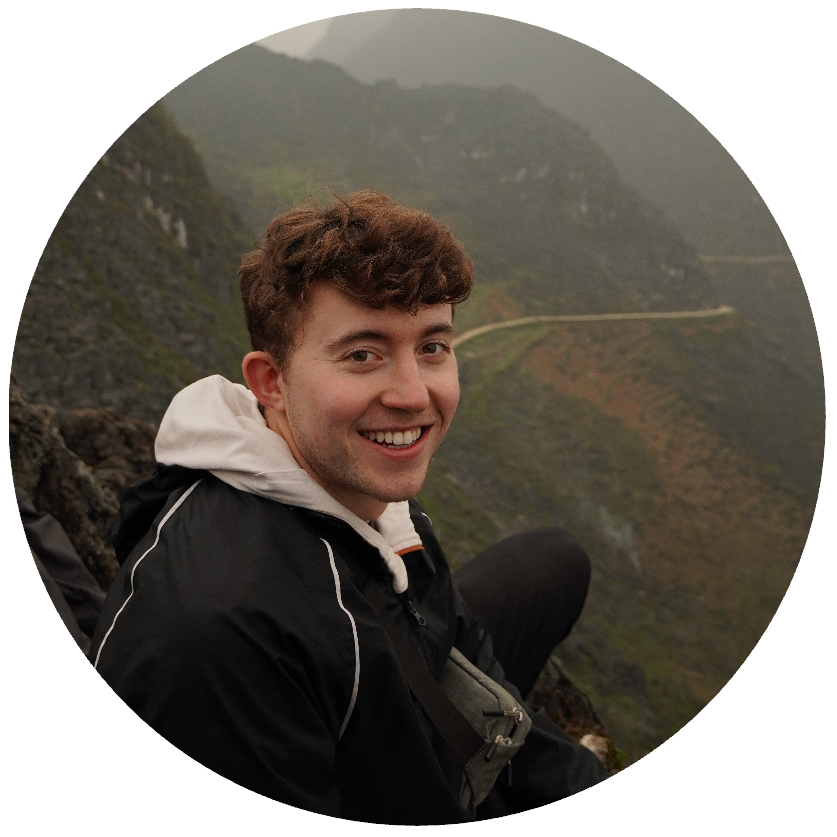
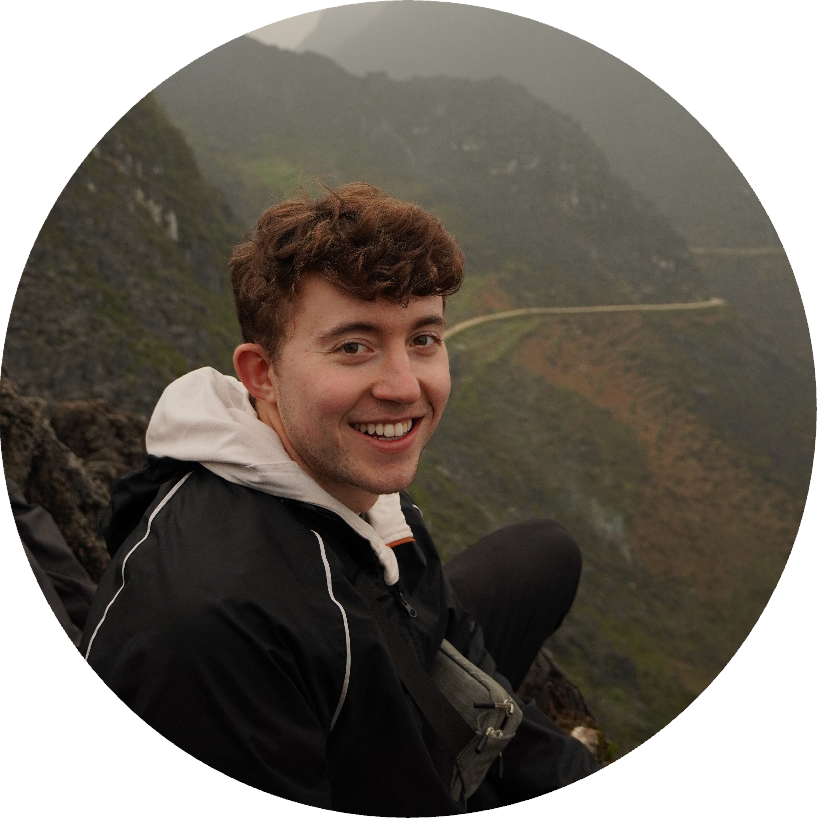
rough timeline entries

diff --git a/components/timeline/TimelineEntry.tsx b/components/timeline/TimelineEntry.tsx
@@ -1,0 +1,40 @@
+import { resumeEntry } from "@/data/resumeEntries";
+import TimelineCard from "./TimelineCard";
+
+declare type TimelineEntryProps = {
+  resumeEntry: resumeEntry;
+  index: number;
+};
+
+const TimelineEntry = (props: TimelineEntryProps) => {
+  return (
+    <>
+      <div className="flex w-full h-36 items-center p-0 md:justify-between mb-10">
+        <div className="spacer w-12 md:hidden"></div>
+        <div className="order-1 block w-full rounded-lg px-6 py-4 md:hidden colored-shadow">
+          <TimelineCard resumeEntry={props.resumeEntry} />
+        </div>
+        <div className="order-1 hidden px-6 py-4 md:block md:w-6/12">
+          {props.index % 2 == 0 ? (
+            <div className="colored-shadow rounded-lg">
+              <TimelineCard resumeEntry={props.resumeEntry} />
+            </div>
+          ) : (
+            <></>
+          )}
+        </div>
+        <div className="order-1 hidden px-6 py-4 md:block md:w-6/12">
+          {props.index % 2 == 0 ? (
+            <></>
+          ) : (
+            <div className="colored-shadow rounded-lg">
+              <TimelineCard resumeEntry={props.resumeEntry} />
+            </div>
+          )}
+        </div>
+      </div>
+    </>
+  );
+};
+
+export default TimelineEntry;

diff --git a/data/resumeEntries.ts b/data/resumeEntries.ts
@@ -1,0 +1,47 @@
+export declare type resumeEntry = {
+  title: string;
+  subtitle: string;
+  dateString: string;
+  //markdown
+  moreInfo?: string;
+};
+
+const resumeEntries: resumeEntry[] = [
+  {
+    title: "Intern, Host",
+    subtitle: "Classic Teleproductions",
+    dateString: "2017-2019",
+  },
+  {
+    title: "Graduated",
+    subtitle: "Twinsburg High School",
+    dateString: "June 2019",
+  },
+  {
+    title: "Software Engineer Intern",
+    subtitle: "Patriot Software",
+    dateString: "Summer 2020",
+  },
+  {
+    title: "Teaching Assistant",
+    subtitle: "Fundamentals of Engineering for Honors (FEH)",
+    dateString: "2020-Present",
+  },
+  {
+    title: "IT Intern",
+    subtitle: "First Energy",
+    dateString: "Summer 2021",
+  },
+  {
+    title: "Software Engineer Intern",
+    subtitle: "Palantir",
+    dateString: "Summer 2022",
+  },
+  {
+    title: "Graduated B.S. Computer Science",
+    subtitle: "Ohio State University",
+    dateString: "December 2022",
+  },
+];
+
+export default resumeEntries;

diff --git a/pages/index.tsx b/pages/index.tsx
@@ -3,7 +3,8 @@ import Head from "next/head";
 import NavBar from "@/components/nav/navbar";
 import { gsap } from "gsap";
 import { ScrollTrigger } from "gsap/dist/ScrollTrigger";
-import Overview from "@/components/overview";
+import Overview from "@/components/Overview";
+import Timeline from "@/components/timeline/Timeline";
 
 const Home: NextPage = () => {
   gsap.registerPlugin(ScrollTrigger);
@@ -21,8 +22,8 @@ const Home: NextPage = () => {
             <div className="m-auto text-5xl sm:text-6xl">Jason Ahern</div>
           </div>
           <Overview />
-          <div className="spacer h-screen"></div>
-          <div className="spacer h-screen"></div>
+          <Timeline />
+          <div className="spacer h-screen">TEST2</div>
           <div className="spacer h-screen"></div>
           <div className="spacer h-screen"></div>
         </div>

diff --git a/components/timeline/Timeline.tsx b/components/timeline/Timeline.tsx
@@ -1,0 +1,21 @@
+import resumeEntries from "@/data/resumeEntries";
+import TimelineEntry from "./TimelineEntry";
+
+const Timeline = () => {
+  return (
+    <div className="spacer min-h-screen flex flex-wrap">
+      <div className="mx-auto mt-0 text-5xl mb-10">A Brief Resume...</div>
+
+      <div className="container mx-auto h-full w-full">
+        <div className="wrap relative h-full overflow-visible p-2 lg:p-10">
+          <div className="border-2-2 right-9/10 absolute h-full translate-x-1/2 border colored-border border-opacity-60 md:right-1/2"></div>
+          {resumeEntries.map((resumeEntry, index) => (
+            <TimelineEntry resumeEntry={resumeEntry} index={index} />
+          ))}
+        </div>
+      </div>
+    </div>
+  );
+};
+
+export default Timeline;

diff --git a/components/overview.tsx b/components/overview.tsx
@@ -13,7 +13,7 @@ import {
 
 const Overview = () => {
   return (
-    <div className="h-screen flex m-3 flex-wrap gap-0">
+    <div className="flex m-3 flex-wrap gap-0 mb-48">
       <div className="lg:ml-8 xl:ml-20 w-full md:w-1/2 h-fit">
         <h1 className="text-4xl lg:text-5xl font-extrabold">
           {" "}
@@ -61,7 +61,12 @@ const Overview = () => {
       </div>
       <div className="h-full m-auto lg:mr-8 xl:mr-20">
         <div className="w-80 lg:w-96 aspect-square relative mt-2">
-          <Image src="/images/headshot.png" alt="headshot" fill />
+          <Image
+            src="/images/headshot.png"
+            className="rounded-full colored-shadow"
+            alt="headshot"
+            fill
+          />
         </div>
       </div>
     </div>

diff --git a/components/timeline/TimelineCard.tsx b/components/timeline/TimelineCard.tsx
@@ -1,0 +1,19 @@
+import { resumeEntry } from "@/data/resumeEntries";
+
+const TimelineCard = ({ resumeEntry }: { resumeEntry: resumeEntry }) => {
+  return (
+    <>
+      <div className="w-full">
+        <div className="bg-transparent rounded p-4 flex flex-col leading-normal">
+          <div className="">
+            <div className="font-bold text-2xl mb-2">{resumeEntry.title}</div>
+            <div className="font-bold text-xl mb-2">{resumeEntry.subtitle}</div>
+            <p className=" text-base">{resumeEntry.dateString}</p>
+          </div>
+        </div>
+      </div>
+    </>
+  );
+};
+
+export default TimelineCard;

diff --git a/styles/globals.css b/styles/globals.css
@@ -16,6 +16,14 @@
     @apply highlight-link border-primary-text hover:border-primary-text-highlight dark:hover:border-primary-text-highlight-dark  dark:border-primary-text-dark;
   }
 
+  .colored-border {
+    @apply border border-primary-text dark:border-primary-text-dark;
+  }
+
+  .colored-shadow {
+    @apply shadow-2xl shadow-gradient-purple dark:shadow-gradient-first-dark;
+  }
+
   a {
     @apply text-link hover:text-link-hover dark:text-link-dark dark:hover:text-link-dark-hover hover:underline;
   }
